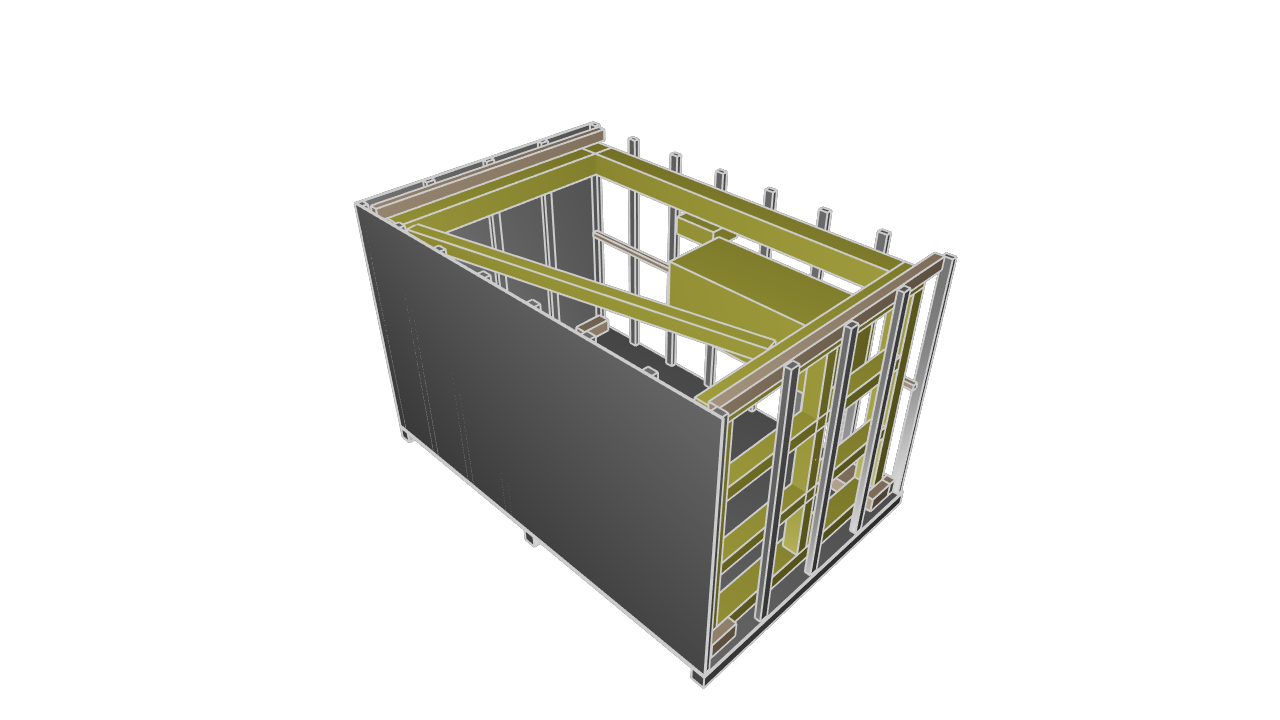
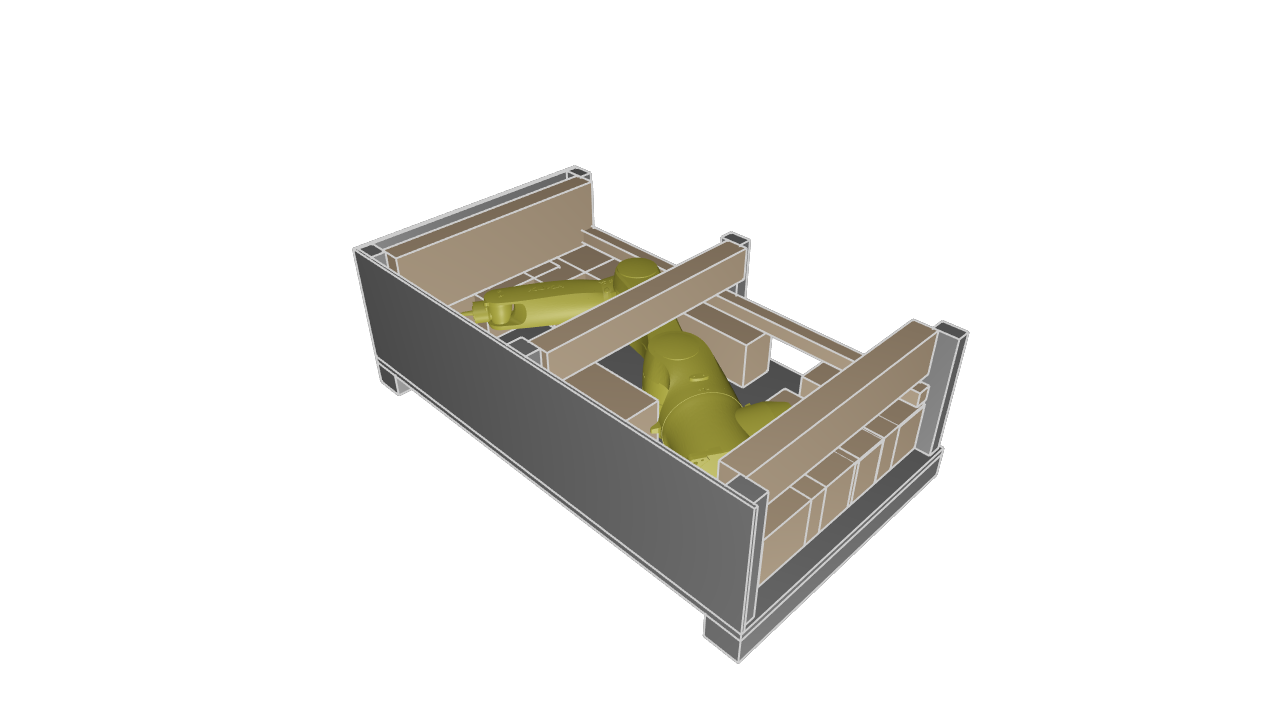
[+] Reshot the crate cutaway on the KUKA KR 6 with tool

Changed region(s): [[0.25, 0.1528, 0.7812, 0.9472]]

diff --git a/README.md b/README.md
@@ -85,7 +85,7 @@ margin. Blocking, studs and panels add 230 mm. Compare the *machine* to the
 gauge instead of the *crate*, and you turn a 110 mm squeak into a false sense of
 safety. This is why the tool always confronts the crate — never the machine.
 
-![The machine inside its generated crate](docs/caisse-ecorchee.png)
+![The KUKA KR 6 with its tool inside its generated crate, chocks included](docs/caisse-ecorchee.png)
 
 ## Where Zoo does the work, and where we do
 
